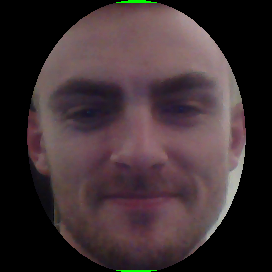
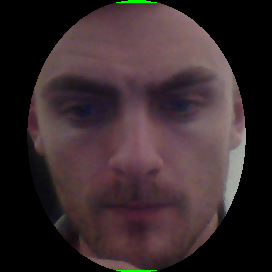
...

diff --git a/src/cvfacial/FaceDetectionController.java b/src/cvfacial/FaceDetectionController.java
@@ -151,6 +151,8 @@ public class FaceDetectionController {
 		return newMat;
 	}
 
+
+
 	/**
 	 * The action triggered by pushing the button on the GUI
 	 */
@@ -301,6 +303,15 @@ public class FaceDetectionController {
 			frame.copyTo(x, mask);
 			spotImage = x.submat(roi);
 		}
+
+
+
+		Mat orig_image = Imgcodecs.imread("res/person1.jpg", Imgcodecs.CV_LOAD_IMAGE_COLOR);
+		Mat newface = new Mat();
+		newface = scaleMat(orig_image, faces);
+		spotImage = newface;
+		spot2Image = orig_image;
+
 
 	}
 
